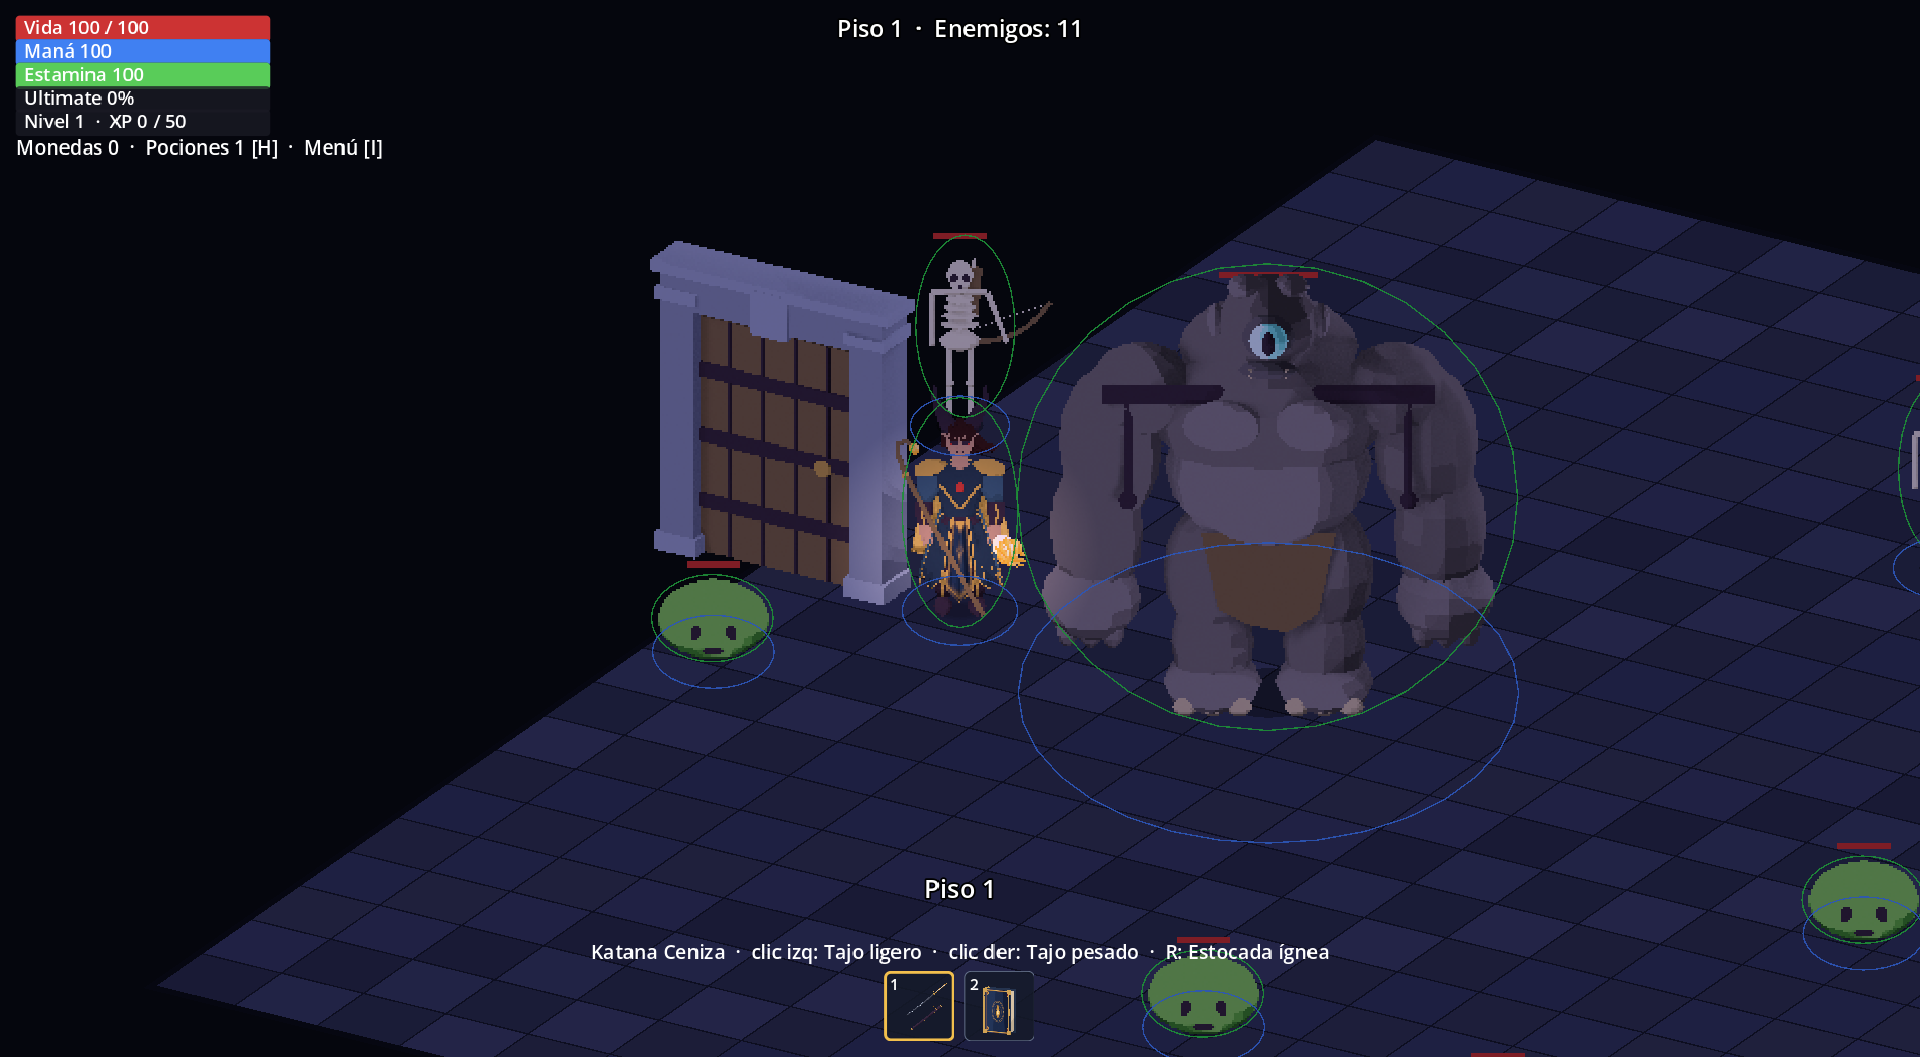
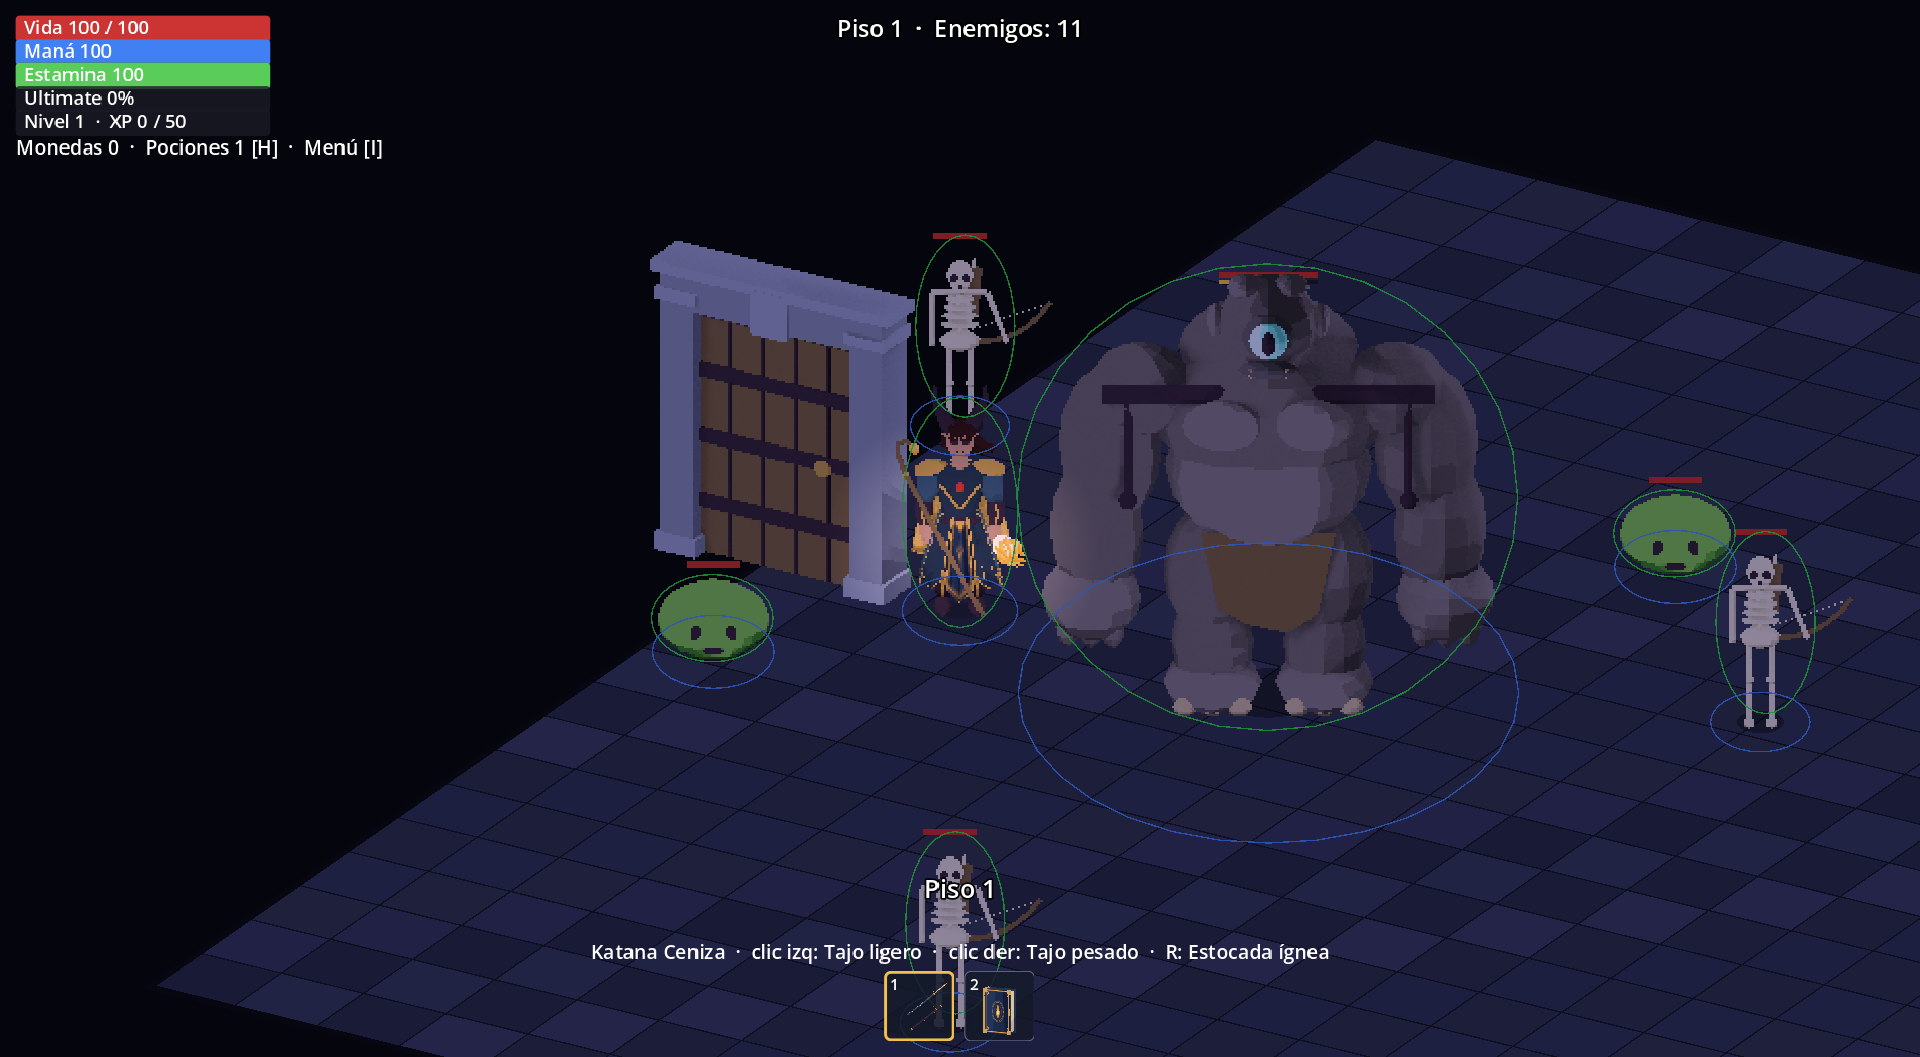
Combate: esquiva perfecta, postura del élite, maná al golpear y bonus tras dash
- Esquiva perfecta: un golpe durante el dash da ultimate, maná y estamina (no cuenta en el mega dash; cooldown 0.6 s).
- Postura (Sekiro suave): cíclope y mago tienen barra amarilla; al llenarse quedan abiertos 2.2 s, cancelan su zona y reciben x1.5. Barras más anchas en gigantes.
- La espada alimenta la magia: +4/+10 de maná por golpe, tope 14 por tajo.
- El tajo tras un dash pega +30 % (se consume en 0.5 s).
- test_combat_ext.gd, capturas y notas de diseño.

diff --git a/docs/DESIGN_NOTES.md b/docs/DESIGN_NOTES.md
@@ -34,7 +34,10 @@ Lee este archivo y sigue desde "Pendiente". Lo que está escrito aquí es la fue
 - **Tienda (2026-11-11):** `scripts/shop.gd` + `data/shop.json`. Tomás (puesto) vende pociones y equipo de tier 1-2; Bram (junto a la casa) compra materiales de monstruos. Panel con el juego en pausa.
 - **Misiones:** 10 en cadena (`data/quests.json`); eventos `kill`, `floor` y `loot`. **Piso 4 opcional** (`data/dungeon.json`): cofre final con +3 puntos de estadística; el piso 3 ya no reinicia la dungeon.
 - **Test de humo con bot** (`tests/test_playthrough.gd`, ejecutar con `--fixed-fps 60`): recorre los 4 pisos en ~137 s de juego sin morir. El bot apunta perfecto y no esquiva; úsalo para detectar atascos, no para balance fino. Con él se ve que XP y monedas llegan muy rápido (nivel 12 y ~1500 monedas al final).
-- Pendiente: sin probar jugando por una persona; no hay interior de casas; el mercader no recompra equipo.
+- **Balance (2026-11-11):** `data/dungeon.json` `scale` (vida/daño por piso: 1.0/1.0, 1.3/1.15, 1.6/1.3, 1.9/1.4); `main.gd` `REWARD_XP = 0.8`, `REWARD_COINS = 0.7`. El bot (con esquiva básica, gasto de puntos y compras) recorre los 4 pisos en ~130-190 s con 0-1 muertes; los límites del test son 15 muertes y 900 s.
+- **Opciones y sonido:** pestaña Opciones del menú (`settings.gd`, `user://settings.json`): temblor, destellos, pausa de impacto y volúmenes (buses SFX/Music). `music.gd` sintetiza por código un tema por zona, un ambiente y una capa de combate sincronizada (no hay archivos de audio; el generador externo pide suscripción de nivel 2).
+- **Combate nuevo:** *esquiva perfecta* (un golpe durante el dash da +12 ultimate, +15 maná, +25 estamina; cooldown 0.6 s; el mega dash no cuenta), *maná por golpe de espada* (+4 ligero, +10 pesado, tope 14 por tajo), *bonus tras dash* (+30 % al siguiente tajo en 0.5 s) y *postura* de élites (cíclope 70, mago 90; ligero 8, pesado 30, magia 12, explosión 24; al llenarse quedan 2.2 s abiertos, no actúan, cancelan su zona y reciben x1.5; la barra amarilla se regenera tras 2 s sin golpes). Test: `test_combat_ext.gd`.
+- Pendiente: sin probar jugando por una persona; no hay interior de casas; el mercader no recompra equipo; sin música compuesta (la sintetizada es funcional, no sustituye a una pista real).
 - Animaciones nuevas (procedurales, no de Blender): la bola de fuego usa la anim `cast` y el dragón se aplasta y se desvanece al morir.
 
 ## 2. Brief del juego (resumen)
